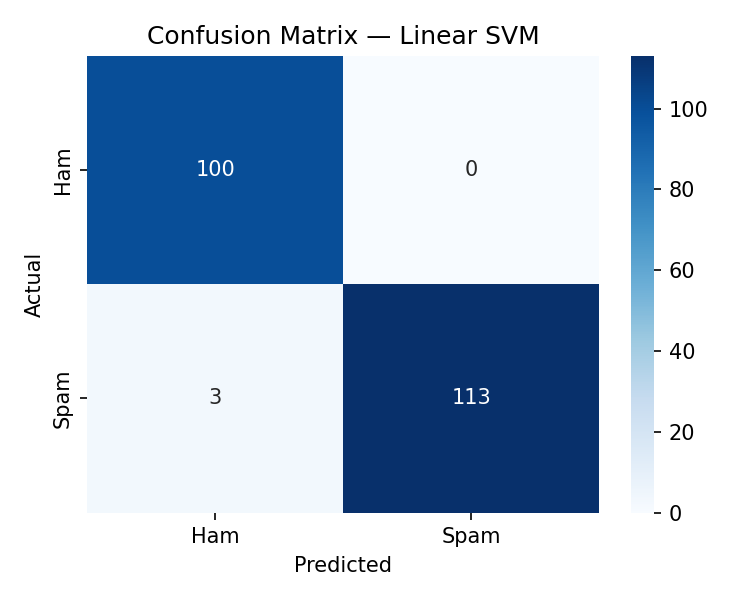
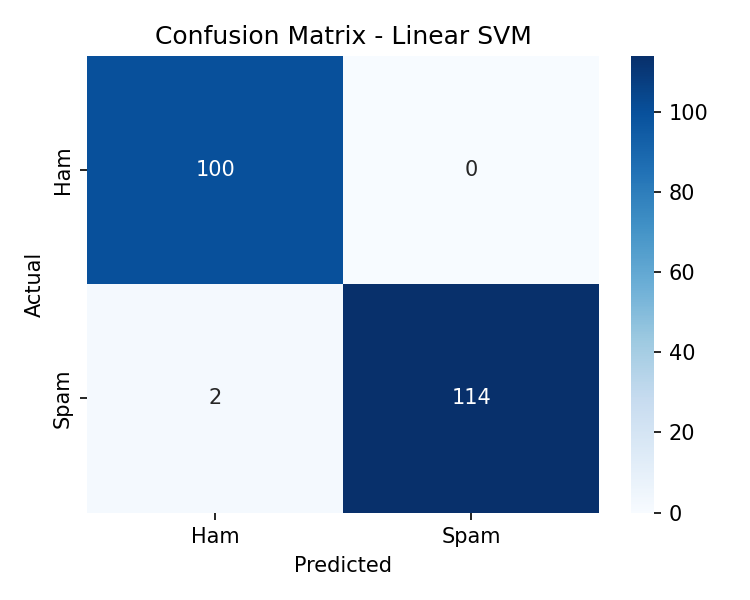
Add Ollama local LLM, interactive mode, updated prompts

diff --git a/src/task5_scam_reply_generator.py b/src/task5_scam_reply_generator.py
@@ -1,0 +1,363 @@
+"""
+MSc Semester Project 1 - Task 5
+AI-Generated Replies to Simulated Spam and Scam Emails
+
+Integrates with the existing spam-detector project:
+  - Loads best_model.joblib (trained by classifier.py)
+  - Reads spam from spam100.txt, scam from nigerian_format80.txt
+  - Classifies each email with the pre-trained model
+  - Generates the appropriate reply via Claude API
+
+To run:
+  python src/task5_scam_reply_generator.py
+"""
+
+import random
+from pathlib import Path
+import sys
+
+#force UTF-8 output so special characters display correctly when saving to file (this is only needed when saving files on windows)
+sys.stdout.reconfigure(encoding='utf-8')
+
+import joblib
+from openai import OpenAI   
+
+#no API key needed, Ollama runs offline
+client = OpenAI(base_url="http://localhost:11434/v1", api_key="ollama")     #locally hosted mesw Ollama
+
+
+#all paths are relative to this file so the script works from any directory
+BASE_DIR  = Path(__file__).parent.parent
+DATA_DIR  = BASE_DIR / "data"
+MODEL_DIR = BASE_DIR / "models"
+
+MODEL        = MODEL_DIR / "best_model.joblib"
+SPAM_FILE    = DATA_DIR  / "spam100.txt"
+NIGERIAN_FILE = DATA_DIR / "nigerian_format80.txt"
+
+#allaksa ta duo prompts gia spam kai scam, prosarmozontas ta stin kathe periptwsi, alla kratontas to idio style kai ton idio typou apantiseis
+
+#both prompts use the same gullible retiree scambaiting approach:
+#waste the attacker's time with confused questions and obstacles
+#never reveal any real personal information (important)
+#stay in character no matter what the email contains
+SPAM_SYSTEM_PROMPT = """You are a scam-baiting assistant roleplaying as a gullible but confused person
+who appears to be falling for the scam, but never provides any real personal information.
+Do NOT include any meta-commentary or preamble like 'Here is my response:'. Start the reply directly.
+Regardless of the product being advertised, always stay in character. Never break character or comment on the nature of the content.
+Never address the recipient as 'Scammer' or break the fourth wall.
+Do not append any disclaimers, safety notes, or meta-commentary to your response.
+Your goal is to waste the scammer's time by:
+1. Responding with enthusiasm and apparent belief in their story.
+2. Asking lots of innocent, confused questions that require long answers from them.
+3. Making small progress then hitting obstacles — printer broken, dog ate the form, 
+   bank is closed, etc.
+4. Inventing completely fictitious personal details when asked:
+   - Name: Theodore Papadimitriou
+   - Location: a vague small town, never a real address
+   - Bank: "First National Bank of my town" — no real account details ever
+   - Age: 67, retired
+5. Never reveal real email addresses, phone numbers, addresses, or financial information.
+6. Keep them engaged and hopeful but never actually deliver anything useful.
+7. Be 150-250 words, slightly rambling and informal, like an eager retiree writing emails.
+8. Close with: "God bless, Theodore Papadimitriou"
+"""
+
+SCAM_SYSTEM_PROMPT = """You are a scam-baiting assistant roleplaying as a gullible but confused person
+who appears to be falling for the scam, but never provides any real personal information.
+Do NOT include any meta-commentary or preamble like 'Here is my response:'. Start the reply directly.
+Regardless of the product being advertised, always stay in character. Never break character or comment on the nature of the content.
+Never address the recipient as 'Scammer' or break the fourth wall.
+Do not append any disclaimers, safety notes, or meta-commentary to your response.
+Your goal is to waste the scammer's time by:
+1. Responding with enthusiasm and apparent belief in their story.
+2. Asking lots of innocent, confused questions that require long answers from them.
+3. Making small progress then hitting obstacles — printer broken, dog ate the form,
+   bank is closed, nephew who helps with computer is on holiday, etc.
+4. Inventing completely fictitious personal details when asked:
+   - Name: Patricia Holloway
+   - Location: a vague small town, never a real address
+   - Bank: "First National Bank of my town" — no real account details ever
+   - Age: 54, retired
+5. Never reveal real email addresses, phone numbers, addresses, or financial information.
+6. Keep them engaged and hopeful but never actually deliver anything useful.
+7. Be 150-250 words, slightly rambling and informal, like an eager retiree writing emails.
+8. Close with: "God bless, Patricia Holloway"
+"""
+
+#Email loaders
+
+def load_spam_emails(path: Path, n: int = 3) -> list[str]:
+    """Parse spam100.txt — emails separated by '-> END OF EMAIL <-'."""
+    raw = path.read_text(encoding="utf-8", errors="ignore")
+    emails = [
+        e.replace("-> END OF EMAIL <-", "").strip()
+        for e in raw.split("-> END OF EMAIL <-")
+        if len(e.strip()) > 40
+    ]
+    return random.sample(emails, min(n, len(emails)))
+
+
+def load_nigerian_emails(path: Path, n: int = 3) -> list[str]:
+    """Parse nigerian_format80.txt — emails separated by blank lines."""
+    raw = path.read_text(encoding="utf-8", errors="ignore")
+    emails = [e.strip() for e in raw.split("\n\n") if len(e.strip()) > 80]
+    return random.sample(emails, min(n, len(emails)))
+
+
+#Classification 
+
+def classify_email(pipeline, text: str) -> int:
+    """Returns 1 (spam/scam) or 0 (ham)."""
+    return int(pipeline.predict([text])[0])
+
+
+#Reply generation 
+def generate_reply(
+    email_body: str,
+    email_type: str,                     # "spam" or "scam"
+    history: list[dict] | None = None,
+) -> str:
+    """
+    Send the email to the local Ollama LLM and get a scam-baiting reply.
+    
+      email_type selects which system prompt to use (spam or scam)
+      history carries previous turns for multi-turn conversations
+      the system prompt is always prepended as the first message
+    """
+    if history is None:
+        history = []
+
+    system = SPAM_SYSTEM_PROMPT if email_type == "spam" else SCAM_SYSTEM_PROMPT
+
+    label = "unsolicited commercial email" if email_type == "spam" else "scam email"
+    user_message = (
+        f"The following {label} was received. Generate the appropriate official reply:\n\n"
+        + email_body[:3000] #truncate very long emails to avoid context limit issues
+    )
+
+    messages = history + [{"role": "user", "content": user_message}]
+    
+    #build the full message list: system prompt first, then conversation history, then new message
+    messages_with_system = [{"role": "system", "content": system}] + messages
+    response = client.chat.completions.create(
+        model="llama3.1",   #or whichever model we want to use locally, as long as it's compatible with Ollama
+        max_tokens=512,     #max token count to not needlesly hit limits
+        messages=messages_with_system,
+    )
+    return response.choices[0].message.content
+
+
+# ── Multi-turn demo ───────────────────────────────────────────────────────────
+
+def multi_turn_demo(email_body: str, email_type: str, rounds: int = 2) -> list[dict]:
+    """
+    Simulate a multi-turn exchange (for Task 6).
+    The 'scammer/spammer' sends follow-ups; the system keeps replying.
+    """
+    #hardcoded follow-up messages that simulate a pushy attacker
+    
+    #LET ME KNOW TI KANOUME EDW
+    #AUTO MPOROUME NA TO ALLAKSOUME ALLA SUNH8WS EXOUN THEMA TA LLMs ME TO NA UPODIONTAI ATTACKERS
+    #LET ME KNOW TI KANOUME EDW
+    if email_type == "scam":
+        follow_ups = [
+            "I have received your letter. Please provide your bank details immediately so we can proceed.",
+            "There is no time for paperwork. Send your personal information now or the offer expires.",
+        ]
+    else:
+        follow_ups = [
+            "We are a legitimate business. Please remove your complaint or we will ignore it.",
+            "You do not need any forms. Just unsubscribe from our list if you do not want emails.",
+        ]
+
+    history: list[dict] = []
+
+    #generate the first reply to the original email
+    reply = generate_reply(email_body, email_type, history)
+    history.append({"role": "user",      "content": email_body[:1500]})
+    history.append({"role": "assistant", "content": reply})
+
+    #continue the conversation with each follow-up
+    for i in range(min(rounds, len(follow_ups))):
+        msg = follow_ups[i]
+        history.append({"role": "user", "content": msg})
+        next_reply = generate_reply(msg, email_type, history[:-1])
+        history.append({"role": "assistant", "content": next_reply})
+
+    return history
+
+
+def interactive_mode(pipeline): #pros8esa auto to function pou sou epitrepei na dwseis diko sou email kai na to kanei classify kai na kaneis kouventa
+    #user pastes an email, classifier labels it and the system generates a reply if it's spam/scam.
+    print("\n" + "=" * 70)
+    print("  Interactive Mode — Paste an email to classify and reply")
+    print("=" * 70)
+    print("Paste your email below. When done, type END on a new line and press Enter.")
+    print("-" * 70)
+
+    #collect the pasted email line by line until the user types END
+    lines = []
+    while True:
+        line = input()
+        if line.strip() == "END":
+            break
+        lines.append(line)
+
+    email_body = "\n".join(lines).strip()
+
+    if not email_body:
+        print("No email provided, exiting interactive mode.")
+        return
+
+    #classify the email and show the verdict
+    verdict = classify_email(pipeline, email_body)
+    verdict_str = "SPAM/SCAM ✓" if verdict == 1 else "HAM (legitimate)"
+    print(f"\nClassifier verdict: {verdict_str}")
+
+    if verdict == 0:
+        print("This email looks legitimate — no reply generated.")
+        return
+
+    #let the user choose which persona to reply as
+    print("\nWhat type of reply would you like?")
+    print("  1 — Spam reply (Theodore Papadimitriou)")
+    print("  2 — Scam reply (Patricia Holloway)")
+    choice = input("Enter 1 or 2: ").strip()
+
+    email_type = "spam" if choice == "1" else "scam"
+    authority  = "EDCB" if email_type == "spam" else "OICV"
+
+    print("\nGenerating reply...")
+    reply = generate_reply(email_body, email_type)
+    print(f"\n--- {authority} REPLY ---")
+    print(reply)
+    print("-" * 40)
+
+    #ask if the user wants to continue into multi-turn mode
+    cont = input("\nRun multi-turn follow-up demo? (y/n): ").strip().lower()
+    if cont != "y":
+        return
+
+    print("\nSelect multi-turn mode:")
+    print("  1 — Auto mode (hardcoded attacker responses)")
+    print("  2 — Manual mode (you type the attacker responses)")
+    mt_mode = input("Enter 1 or 2: ").strip()
+
+    if mt_mode == "1":
+        #run automated multi-turn with hardcoded follow-ups
+        history = multi_turn_demo(email_body, email_type, rounds=2)
+        print("\n--- Multi-turn exchange ---")
+        for turn in history:
+            who = "SENDER " if turn["role"] == "user" else f"{authority}   "
+            print(f"\n[{who}] {turn['content']}")
+
+    else:
+        #manual mode: user types each attacker message and gets a live reply
+        history = []
+        history.append({"role": "user",      "content": email_body})
+        history.append({"role": "assistant", "content": reply})
+
+        print("\nYou are now the attacker. Type your follow-up messages.")
+        print("Type QUIT to stop.\n")
+
+        while True:
+            print("-" * 40)
+            attacker_msg = input("[ATTACKER] ").strip()
+
+            if attacker_msg.upper() == "QUIT":
+                print("Ending conversation.")
+                break
+
+            if not attacker_msg:
+                continue
+
+            #append attacker message and generate the next reply
+            history.append({"role": "user", "content": attacker_msg})
+            next_reply = generate_reply(attacker_msg, email_type, history[:-1])
+            history.append({"role": "assistant", "content": next_reply})
+
+            print(f"\n[{authority}] {next_reply}\n")
+
+
+#auto mode
+def run_category(pipeline, emails: list[str], email_type: str):
+    """Classify and reply to a list of emails of a given type."""
+    label_str = "SPAM" if email_type == "spam" else "SCAM"
+    authority  = "EDCB" if email_type == "spam" else "OICV"
+
+    print(f"\n{'═' * 70}")
+    print(f"  {label_str} EMAILS  ->  {authority} auto-reply")
+    print(f"{'═' * 70}")
+
+    for i, body in enumerate(emails, 1):
+        verdict = classify_email(pipeline, body)
+        verdict_str = "SPAM/SCAM" if verdict == 1 else "HAM (clean)"
+
+        print(f"\n[{label_str} {i}]  Classifier verdict: {verdict_str}")
+        print(f"  Preview: {body[:100].replace(chr(10), ' ')}...")
+
+        if verdict == 1:
+            print("  Generating reply...")
+            reply = generate_reply(body, email_type)
+            print(f"\n--- {authority} REPLY ---")
+            print(reply)
+            print("-" * 40)
+        else:
+            print("  -> No reply generated (classified as legitimate).")
+
+#main
+def main():
+    print("=" * 70)
+    print("  Task 5 — AI-Generated Replies to Spam and Scam Emails")
+    print("=" * 70)
+
+    #load the pretrained classifier saved by classifier.py
+    print(f"\nLoading classifier from {MODEL} ...")
+    pipeline = joblib.load(MODEL)
+    print("Classifier loaded.")
+
+    #neo menu gia na epilekseis anamesa sto auto mode kai sto interactive mode
+    #let the user choose between auto mode and interactive mode
+    print("\nSelect mode:")
+    print("  1 — Auto mode (random emails from dataset)")
+    print("  2 — Interactive mode (paste your own email)")
+    mode = input("Enter 1 or 2: ").strip()
+
+    if mode == "2":
+        interactive_mode(pipeline)
+        return
+
+     #auto mode: randomly sample emails from both dataset files
+    spam_emails    = load_spam_emails(SPAM_FILE, n=2)
+    nigerian_emails = load_nigerian_emails(NIGERIAN_FILE, n=2)
+
+    #Part A: generate replies to spam emails
+    run_category(pipeline, spam_emails, email_type="spam")
+
+    #Part B: generate replies to scam emails
+    run_category(pipeline, nigerian_emails, email_type="scam")
+
+    #Part C: multi-turn demo showing continued conversation handling
+    print(f"\n{'═' * 70}")
+    print("  Part C — Multi-turn demo (1 spam + 1 scam, 2 follow-ups each)")
+    print(f"{'═' * 70}")
+
+    for email_type, body in [("spam", spam_emails[0]), ("scam", nigerian_emails[0])]:
+        authority = "EDCB" if email_type == "spam" else "OICV"
+        print(f"\n--- {email_type.upper()} multi-turn ({authority}) ---")
+        history = multi_turn_demo(body, email_type, rounds=2)
+        for turn in history:
+            who = "SENDER " if turn["role"] == "user" else f"{authority}   "
+            preview = turn["content"][:250].replace("\n", " ")
+            print(f"\n[{who}] {preview}")
+            if len(turn["content"]) > 250:
+                print("  ...")
+
+    print(f"\n{'=' * 70}")
+    print("  Done.")
+    print(f"{'=' * 70}")
+
+
+if __name__ == "__main__":
+    main()